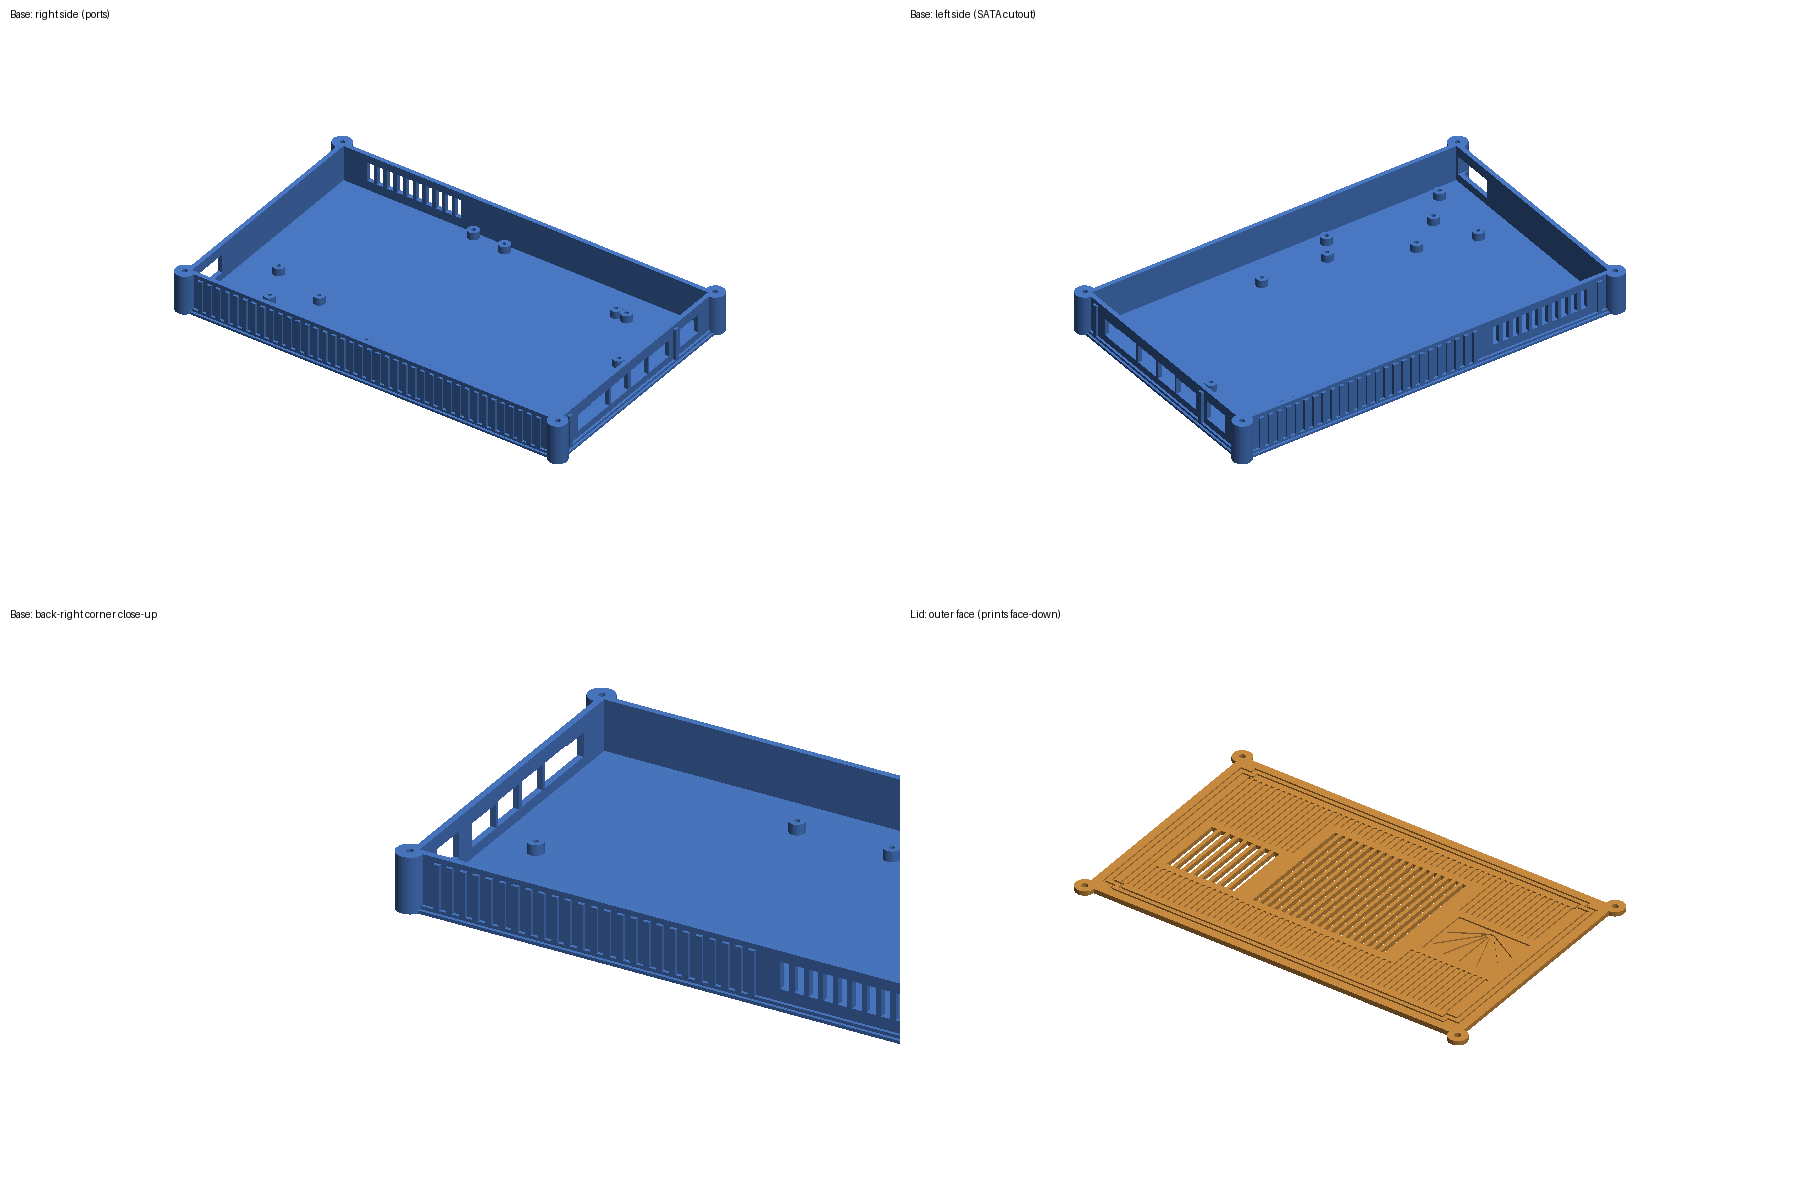
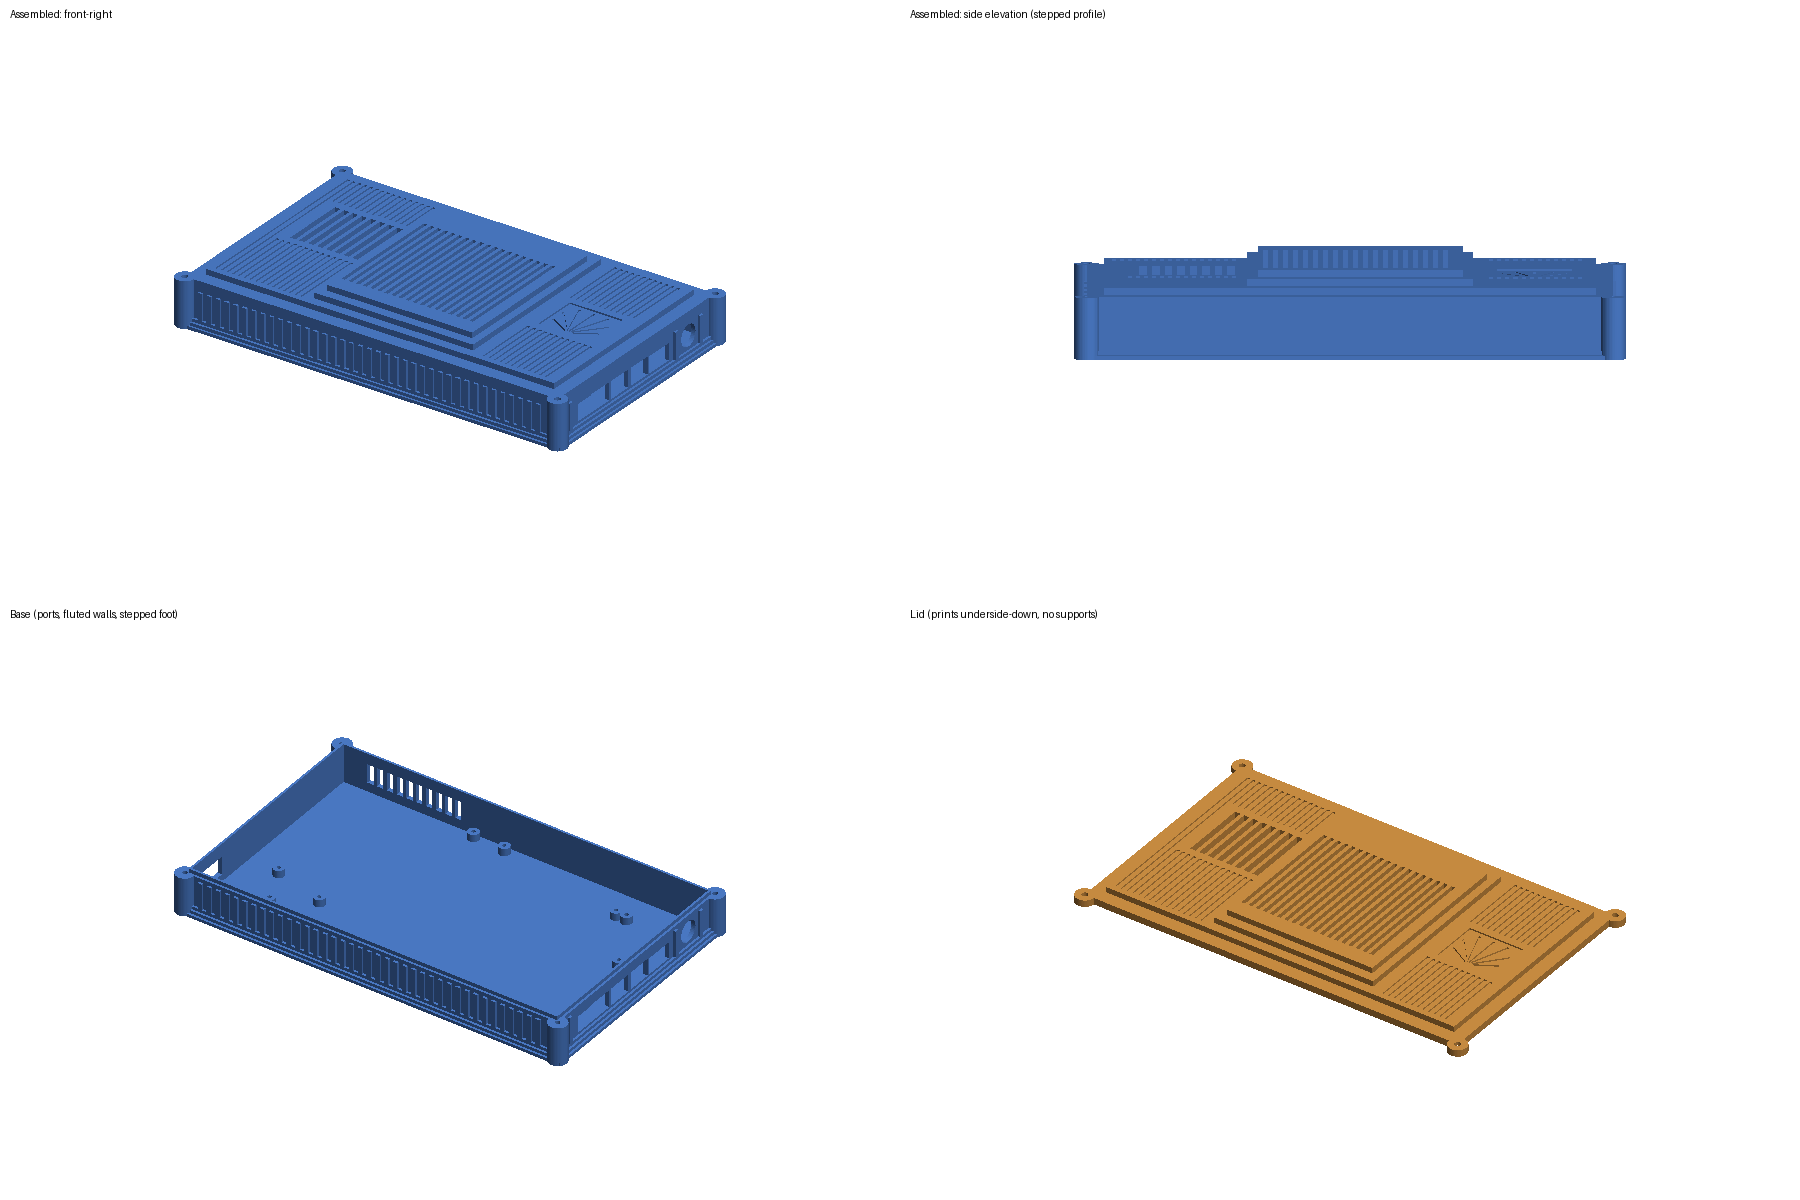
Radio-style stepped lid crown, tongue-and-groove fit, DC jack hole in place of header cutout
Claude-Session: https://claude.ai/code/session_01ATfCQK4oZCKBebaqGdUJZt

diff --git a/make_case.py b/make_case.py
@@ -40,13 +40,17 @@ MOUNT_HOLES_PX = [
 # Rear-panel I/O on the right edge: (name, y_top_px, y_bottom_px, height_mm)
 # height_mm = how far the connector rises above the PCB surface.
 RIGHT_PORTS_PX = [
-    ("power/top connector", 285, 347, 8.0),
     ("HDMI",                395, 462, 7.0),
     ("USB-1",               475, 532, 7.5),
     ("USB-2",               548, 606, 7.5),
     ("USB-3",               620, 680, 7.5),
     ("audio jack",          685, 732, 7.0),
 ]
+
+# Detached DC power jack: the board only has a cable header at the top right;
+# the jack itself screws into the wall. Round hole in the right wall.
+# (y_top_px: height along the edge, d_mm: hole dia, z_mm: centre above PCB top)
+DC_JACK = {"y_px": 318, "d_mm": 11.5, "z_mm": 5.0}
 
 # Left-edge connectors: (name, y_top_px, y_bottom_px, height_mm)
 LEFT_PORTS_PX = [
@@ -90,55 +94,47 @@ def union(parts):
 
 
 RIB_W, RIB_PITCH, RIB_OUT = 2.4, 5.0, 1.2     # wall fluting (mm)
+FOOT_H = 1.6                                  # height of each foot tier (mm)
+STEP = 3.0                                    # height of each lid crown step (mm)
 
 
-def lid_deco(ox0, oy0, ox1, oy1, W, H, px):
-    """Engraved Art Deco pattern for the lid's outer face (z=0 is the outer face,
-    so every groove is open to the print bed: no supports, only short bridges)."""
+def lid_deco(ox0, oy0, ox1, oy1, H, px, top, stepA):
+    """Engraved pattern for the lid shoulder (its top face is at z=top):
+    fluted columns wherever it is free, plus a recessed sunburst plaque."""
     d = 0.8
+    z0, z1 = top - d, top + 1
     cut = []
-    # stepped frame: two concentric outlines with notched (ziggurat) corners
-    for inset in (5.0, 8.0):
-        x0, y0, x1, y1 = ox0 + inset, oy0 + inset, ox1 - inset, oy1 - inset
-        n = 6.0   # corner notch size
-        pts = [(x0 + n, y0), (x1 - n, y0), (x1 - n, y0 + n / 2), (x1, y0 + n / 2), (x1, y1 - n / 2),
-               (x1 - n, y1 - n / 2), (x1 - n, y1), (x0 + n, y1), (x0 + n, y1 - n / 2),
-               (x0, y1 - n / 2), (x0, y0 + n / 2), (x0 + n, y0 + n / 2)]
-        w = 1.0
-        for (ax, ay), (bx, by) in zip(pts, pts[1:] + pts[:1]):
-            cut.append(box(min(ax, bx) - w / 2, min(ay, by) - w / 2, -1,
-                           max(ax, bx) + w / 2, max(ay, by) + w / 2, d))
-    # recessed plaque (right-hand free area)
     fw, fp, guard = 1.6, 3.2, 4.0
-    blocked_rects = []
+    blocked = []                                       # (x0, y0, x1, y1) mm
     for ax0, ay0, ax1, ay1, *_ in VENT_AREAS_PX:
         (bx0, by0), (bx1, by1) = px(ax0, ay1), px(ax1, ay0)
-        blocked_rects.append((bx0, by0, bx1, by1))
-    vx_end = max(r[2] for r in blocked_rects) + 6
-    ylo, yhi = oy0 + 12, oy1 - 12
-    pw, ph = 40.0, 30.0
-    pcx, pcy = (vx_end + (ox1 - 12)) / 2, H / 2
-    px0, py0, px1, py1 = pcx - pw / 2, pcy - ph / 2, pcx + pw / 2, pcy + ph / 2
-    cut.append(box(px0, py0, -1, px1, py1, d))
-    blocked_rects.append((px0, py0, px1, py1))
-    # fluted columns everywhere the lid is free of vents / plaque
-    x = ox0 + 12
-    while x + fw <= ox1 - 12:
-        spans = sorted((r[1] - guard, r[3] + guard) for r in blocked_rects
+        blocked.append((bx0, by0, bx1, by1))
+    blocked.append(stepA)
+    # recessed plaque to the right of the crown
+    pw, ph = 30.0, 26.0
+    pcx, pcy = (stepA[2] + (ox1 - 7)) / 2, H / 2
+    qx0, qy0, qx1, qy1 = pcx - pw / 2, pcy - ph / 2, pcx + pw / 2, pcy + ph / 2
+    cut.append(box(qx0, qy0, z0, qx1, qy1, z1))
+    blocked.append((qx0, qy0, qx1, qy1))
+    ylo, yhi = oy0 + 10, oy1 - 10
+    x = ox0 + 10
+    while x + fw <= ox1 - 10:
+        spans = sorted((r[1] - guard, r[3] + guard) for r in blocked
                        if r[0] - guard < x + fw and x < r[2] + guard)
         seg = ylo
         for b0, b1 in spans:
             if b0 - seg >= 8:
-                cut.append(box(x, seg, -1, x + fw, b0, d))
+                cut.append(box(x, seg, z0, x + fw, b0, z1))
             seg = max(seg, b1)
         if yhi - seg >= 8:
-            cut.append(box(x, seg, -1, x + fw, yhi, d))
+            cut.append(box(x, seg, z0, x + fw, yhi, z1))
         x += fp
-    inner = box(px0 + 2, py0 + 2, -1, px1 - 2, py1 - 2, d + 0.8)
+    # sunburst inside the plaque
+    inner = box(qx0 + 2, qy0 + 2, z0 - 1, qx1 - 2, qy1 - 2, z1)
     for ang in range(-60, 61, 20):
-        ray = box(-0.5, 0, -1, 0.5, 40.0, d + 0.8)
+        ray = box(-0.5, 0, z0 - d, 0.5, 40.0, z1)
         ray.apply_transform(transformations.rotation_matrix(np.radians(ang), [0, 0, 1]))
-        ray.apply_translation([pcx, py0 + 2, 0])
+        ray.apply_translation([pcx, qy0 + 2, 0])
         cut.append(ray.intersection(inner, engine="manifold"))
     return union(cut)
 
@@ -164,11 +160,14 @@ def main():
     ap.add_argument("--screw-d", type=float, default=3.2, help="lid screw clearance dia (mm)")
     ap.add_argument("--pilot-d", type=float, default=2.6, help="base ear pilot dia for M3 (mm)")
     ap.add_argument("--no-vents", action="store_true")
+    ap.add_argument("--dc-jack-d", type=float, default=None, help="DC jack hole dia (mm) [11.5]")
     ap.add_argument("--no-deco", action="store_true", help="plain case, no Art Deco styling")
     ap.add_argument("--ghost", action="store_true", help="also write board_ghost.stl")
     ap.add_argument("--only", choices=["base", "lid"], help="write just one part")
     ap.add_argument("--out", default="out", help="output directory")
     a = ap.parse_args()
+    if a.dc_jack_d:
+        DC_JACK["d_mm"] = a.dc_jack_d
 
     sx = a.board_width / (PX_X1 - PX_X0)
     W = a.board_width
@@ -197,16 +196,18 @@ def main():
     extras = []
     if deco:
         # ziggurat foot: two stepped tiers like the radio's stacked base bands
-        t1, t2 = 2 * RIB_OUT, RIB_OUT
-        extras.append(box(ox0 - t1, oy0 - t1, 0, ox1 + t1, oy1 + t1, 1.2))
-        extras.append(box(ox0 - t2, oy0 - t2, 1.2, ox1 + t2, oy1 + t2, 2.4))
+        for i in range(3):      # 3 tiers, widest at the bed (prints without supports)
+            o = (3 - i) * RIB_OUT
+            extras.append(box(ox0 - o, oy0 - o, i * FOOT_H, ox1 + o, oy1 + o, (i + 1) * FOOT_H))
         # vertical fluting on all four walls, stopping short of the rim
-        zr0, zr1 = 2.4, z_top - 2.0
+        zr0, zr1 = 3 * FOOT_H, z_top - 2.0
         lo = ear_r + 3
         def hit(v, spans):
             return any(v + RIB_W > lo_ and v < hi_ for lo_, hi_ in spans)
         k = 1.5   # keep ribs this far from any opening
         right_skip = [(px(0, yb)[1] - k, px(0, ya)[1] + k) for _, ya, yb, _ in RIGHT_PORTS_PX]
+        jy = px(0, DC_JACK['y_px'])[1]
+        right_skip.append((jy - DC_JACK['d_mm'] / 2 - k, jy + DC_JACK['d_mm'] / 2 + k))
         left_skip = [(px(0, yb)[1] - k, px(0, ya)[1] + k) for _, ya, yb, _ in LEFT_PORTS_PX]
         back_skip = [(px(xa, 0)[0] - k, px(xb, 0)[0] + k) for _, xa, xb, _ in BACK_VENTS_PX]
         x = ox0 + lo
@@ -260,18 +261,49 @@ def main():
         cut = box(ox0 - 6, y_lo, z_pcb_bot, ix0 + 1, y_hi, z_pcb_top + hh + m)
         body = body.difference(cut, engine="manifold")
 
+    # DC jack hole in the right wall
+    jy = px(0, DC_JACK["y_px"])[1]
+    hole = creation.cylinder(radius=DC_JACK["d_mm"] / 2, height=ox1 - ix1 + 8, sections=48)
+    hole.apply_transform(transformations.rotation_matrix(np.pi / 2, [0, 1, 0]))
+    hole.apply_translation([(ix1 - 1 + ox1 + 6) / 2, jy, z_pcb_top + DC_JACK["z_mm"]])
+    body = body.difference(hole, engine="manifold")
+
+    # locating tongue on the inner half of the wall top
+    tongue_h, tg = 2.0, 0.25
+    tongue = box(ix0 - 1.2, iy0 - 1.2, z_top - 0.01, ix1 + 1.2, iy1 + 1.2, z_top + tongue_h).difference(
+        box(ix0, iy0, z_top - 1, ix1, iy1, z_top + tongue_h + 1), engine="manifold")
+    body = union([body, tongue])
+
     # ---------------------------------------------------------------- lid
-    lid_plate = union([box(ox0, oy0, 0, ox1, oy1, a.lid)] +
-                      [tube(ear_r, 0, a.lid, c) for c in ear_centres])
-    lip_t, lip_h, tol = 1.6, 2.5, 0.35
-    lip_outer = box(ix0 + tol, iy0 + tol, a.lid - 0.01, ix1 - tol, iy1 - tol, a.lid + lip_h)
-    lip_inner = box(ix0 + tol + lip_t, iy0 + tol + lip_t, a.lid - 1,
-                    ix1 - tol - lip_t, iy1 - tol - lip_t, a.lid + lip_h + 1)
-    lid = union([lid_plate, lip_outer.difference(lip_inner, engine="manifold")])
+    # Stepped ziggurat crown like the radio's silhouette: perimeter plate, a
+    # shoulder, a step and a tall central spine over the heatsink vents.
+    # Printed outer-face UP on its flat underside; every step narrows as it
+    # rises, so no supports are needed.
+    t1 = a.lid + 1.2
+    hx0 = px(VENT_AREAS_PX[-1][0], 0)[0] - 2        # spine x-range = heatsink vent area
+    hx1 = px(VENT_AREAS_PX[-1][2], 0)[0] + 2
+    parts = [box(ox0, oy0, 0, ox1, oy1, t1)] + [tube(ear_r, 0, t1, c) for c in ear_centres]
+    lid_top, stepA = t1, None
+    if deco:
+        tiers = [(ox0 + 7, oy0 + 7, ox1 - 7, oy1 - 7),
+                 (hx0 - 4, oy0 + 12, hx1 + 4, oy1 - 12),
+                 (hx0, oy0 + 17, hx1, oy1 - 17)]
+        stepA = tiers[1]
+        z = t1
+        for (x0, y0, x1, y1) in tiers:
+            parts.append(box(x0, y0, z - 0.01, x1, y1, z + STEP))
+            z += STEP
+        lid_top = z
+    lid = union(parts)
+
+    # groove on the underside that receives the base's tongue
+    groove = box(ix0 - 1.2 - tg, iy0 - 1.2 - tg, -1, ix1 + 1.2 + tg, iy1 + 1.2 + tg, tongue_h + 0.4).difference(
+        box(ix0 + tg, iy0 + tg, -2, ix1 - tg, iy1 - tg, tongue_h + 2), engine="manifold")
+    lid = lid.difference(groove, engine="manifold")
 
     for c in ear_centres:
-        hole = creation.cylinder(radius=a.screw_d / 2, height=a.lid + 2, sections=32)
-        hole.apply_translation([c[0], c[1], a.lid / 2])
+        hole = creation.cylinder(radius=a.screw_d / 2, height=t1 + 2, sections=32)
+        hole.apply_translation([c[0], c[1], t1 / 2])
         lid = lid.difference(hole, engine="manifold")
 
     if not a.no_vents:
@@ -280,14 +312,14 @@ def main():
             vx1, vy1 = px(ax1, ay0)
             x = vx0
             while x + slot_w <= vx1:
-                lid = lid.difference(box(x, vy0, -1, x + slot_w, vy1, a.lid + lip_h + 1),
+                lid = lid.difference(box(x, vy0, -1, x + slot_w, vy1, lid_top + 1),
                                      engine="manifold")
                 x += pitch
 
     if deco:
-        lid = lid.difference(lid_deco(ox0, oy0, ox1, oy1, W, H, px), engine="manifold")
-    # NOTE: the lid is exported plate-down (outer face on z=0, lip pointing up),
-    # which is the print orientation: no supports needed.
+        lid = lid.difference(lid_deco(ox0, oy0, ox1, oy1, H, px, t1 + STEP, stepA),
+                             engine="manifold")
+    # lid is exported in print orientation (underside on z=0, crown pointing up)
 
     # ---------------------------------------------------------------- write
     os.makedirs(a.out, exist_ok=True)

diff --git a/render_preview.py b/render_preview.py
@@ -35,12 +35,13 @@ def render(m, elev, azim, W=900, H=600, base=(80,130,210), zoom_center=None, zoo
 if __name__=="__main__":
     out="model_preview.png"
     b=trimesh.load("out/case_base.stl"); l=trimesh.load("out/case_lid.stl")
-    l.apply_transform(trimesh.transformations.rotation_matrix(np.pi,[1,0,0])); l.apply_translation([0,0,-l.bounds[0][2]])  # show outer face up
-    tiles=[(render(b,35,-35),"Base: right side (ports)"),
-           (render(b,35,215,base=(80,130,210)),"Base: left side (SATA cutout)"),
-           (render(b,30,150),"Base: back wall (fan exhaust)"),
-           (render(l,35,-35,base=(215,150,70)),"Lid: outer face (prints face-down)")]
-    tiles[2]=(render(b,28,150,zoom=2.6,zoom_center=[190,125,8]),"Base: back-right corner close-up")
+    z_top=b.bounds[1][2]-2.0                       # rim height (tongue sticks 2 mm above)
+    l2=l.copy(); l2.apply_translation([0,0,z_top])
+    asm=trimesh.util.concatenate([b,l2])
+    tiles=[(render(asm,28,-35),"Assembled: front-right"),
+           (render(asm,6,0,zoom=1.0),"Assembled: side elevation (stepped profile)"),
+           (render(b,35,-35),"Base (ports, fluted walls, stepped foot)"),
+           (render(l,35,-35,base=(215,150,70)),"Lid (prints underside-down, no supports)")]
     W,H=tiles[0][0].size; sheet=Image.new("RGB",(W*2,H*2+0),"white"); d=ImageDraw.Draw(sheet)
     for i,(im,t) in enumerate(tiles):
         sheet.paste(im,((i%2)*W,(i//2)*H)); d.text(((i%2)*W+10,(i//2)*H+8),t,fill=(0,0,0))
